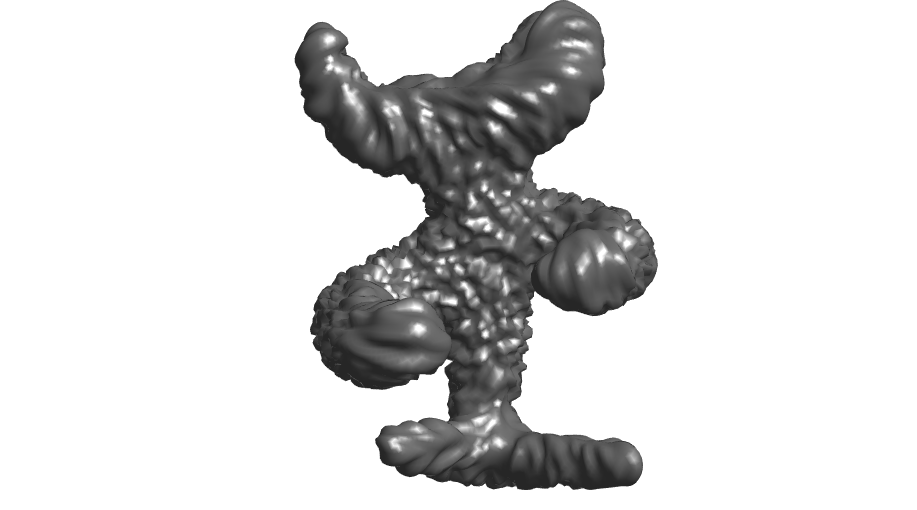
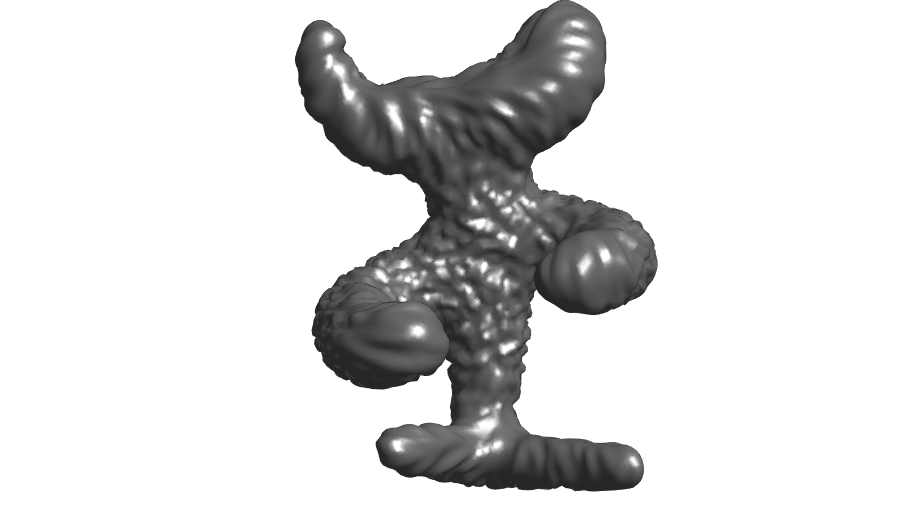
update figs

diff --git a/code/test_2x2_meshes.m b/code/test_2x2_meshes.m
@@ -179,7 +179,7 @@ for k=1:m
     saveas(gcf, [rep 'anisodiffus-' num2str(k) '.png'], 'png');
     % plot using elevations
     W = squeeze( optD.Ua(:,3,:) );
-    kappa = .05; % strenght of elevation
+    kappa = .03; % strenght of elevation
     clf;  plot_mesh(optD.Va + kappa*repmat(f{k}'-1/2, [3 1]) .* W ,optD.Fa);
 	colormap gray(256); drawnow;  
     saveas(gcf, [rep 'anisodiffus-' num2str(k) '.png'], 'png');
